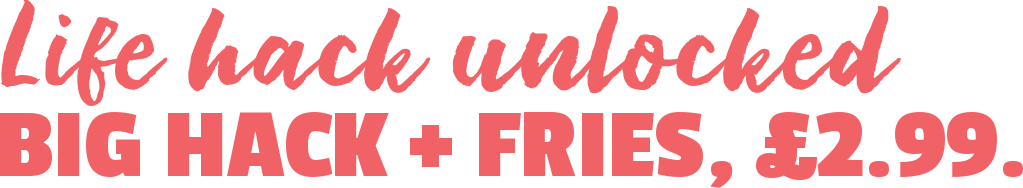
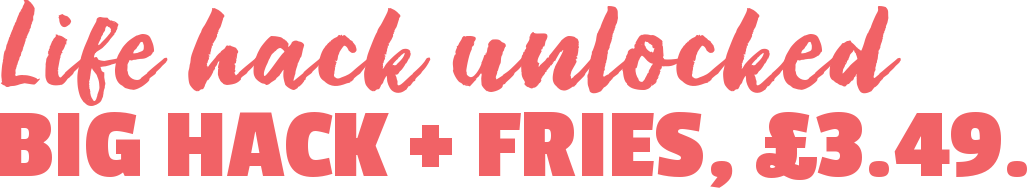
Tue 24 Nov deal email: Big Hack + fries now £3.49
Claude-Session: https://claude.ai/code/session_01GYxQg47SgkWvXTb2iUprmt

diff --git a/deals-nov-2026/bims-email-tue-24-11-big-hack-fries-349.html b/deals-nov-2026/bims-email-tue-24-11-big-hack-fries-349.html
@@ -41,7 +41,7 @@ a { text-decoration:none; }
 </style>
 </head>
 <body class="bg-black" style="margin:0;padding:0;width:100%;background-color:#141414;background-image:linear-gradient(#141414,#141414);">
-<div style="display:none;font-size:1px;line-height:1px;max-height:0;max-width:0;opacity:0;overflow:hidden;mso-hide:all;">Big Hack + small fries for £2.99. Tuesday only. That&#x27;s not a typo, it&#x27;s a hack.&nbsp;&#847;&nbsp;&#847;&nbsp;&#847;&nbsp;&#847;&nbsp;&#847;&nbsp;&#847;&nbsp;&#847;&nbsp;&#847;&nbsp;&#847;&nbsp;&#847;&nbsp;&#847;&nbsp;&#847;&nbsp;&#847;&nbsp;&#847;&nbsp;&#847;&nbsp;&#847;&nbsp;&#847;&nbsp;&#847;&nbsp;&#847;&nbsp;&#847;&nbsp;&#847;&nbsp;&#847;&nbsp;&#847;&nbsp;&#847;&nbsp;&#847;&nbsp;&#847;&nbsp;&#847;&nbsp;&#847;&nbsp;&#847;&nbsp;&#847;&nbsp;&#847;&nbsp;&#847;&nbsp;&#847;&nbsp;&#847;&nbsp;&#847;&nbsp;&#847;&nbsp;&#847;&nbsp;&#847;&nbsp;&#847;&nbsp;&#847;&nbsp;&#847;&nbsp;&#847;&nbsp;&#847;&nbsp;&#847;&nbsp;&#847;&nbsp;&#847;&nbsp;&#847;&nbsp;&#847;&nbsp;&#847;&nbsp;&#847;&nbsp;&#847;&nbsp;&#847;&nbsp;&#847;&nbsp;&#847;&nbsp;&#847;&nbsp;&#847;&nbsp;&#847;&nbsp;&#847;&nbsp;&#847;&nbsp;&#847;</div>
+<div style="display:none;font-size:1px;line-height:1px;max-height:0;max-width:0;opacity:0;overflow:hidden;mso-hide:all;">Big Hack + small fries for £3.49. Tuesday only. That&#x27;s not a typo, it&#x27;s a hack.&nbsp;&#847;&nbsp;&#847;&nbsp;&#847;&nbsp;&#847;&nbsp;&#847;&nbsp;&#847;&nbsp;&#847;&nbsp;&#847;&nbsp;&#847;&nbsp;&#847;&nbsp;&#847;&nbsp;&#847;&nbsp;&#847;&nbsp;&#847;&nbsp;&#847;&nbsp;&#847;&nbsp;&#847;&nbsp;&#847;&nbsp;&#847;&nbsp;&#847;&nbsp;&#847;&nbsp;&#847;&nbsp;&#847;&nbsp;&#847;&nbsp;&#847;&nbsp;&#847;&nbsp;&#847;&nbsp;&#847;&nbsp;&#847;&nbsp;&#847;&nbsp;&#847;&nbsp;&#847;&nbsp;&#847;&nbsp;&#847;&nbsp;&#847;&nbsp;&#847;&nbsp;&#847;&nbsp;&#847;&nbsp;&#847;&nbsp;&#847;&nbsp;&#847;&nbsp;&#847;&nbsp;&#847;&nbsp;&#847;&nbsp;&#847;&nbsp;&#847;&nbsp;&#847;&nbsp;&#847;&nbsp;&#847;&nbsp;&#847;&nbsp;&#847;&nbsp;&#847;&nbsp;&#847;&nbsp;&#847;&nbsp;&#847;&nbsp;&#847;&nbsp;&#847;&nbsp;&#847;&nbsp;&#847;&nbsp;&#847;</div>
 <table role="presentation" width="100%" cellpadding="0" cellspacing="0" border="0" class="bg-black" bgcolor="#141414" style="background-color:#141414;background-image:linear-gradient(#141414,#141414);">
 <tr><td align="center" style="padding:0;">
 <table role="presentation" width="600" cellpadding="0" cellspacing="0" border="0" class="w100" style="width:600px;max-width:600px;">
@@ -55,13 +55,13 @@ a { text-decoration:none; }
 
 <!-- hero -->
 <tr><td class="px bg-black" bgcolor="#141414" style="background-color:#141414;background-image:linear-gradient(#141414,#141414);padding:6px 20px 0 20px;">
-<a href="https://www.bims.co.uk" target="_blank"><img src="https://raw.githubusercontent.com/yaniiszigheche-pixel/BIMS-EMAIL-/main/deals-nov-2026/2026-11-24-big-hack-fries-299.jpg" width="560" alt="Big Hack and small fries, only £2.99. Tuesday only." style="display:block;width:100%;max-width:560px;height:auto;border-radius:20px;"></a>
+<a href="https://www.bims.co.uk" target="_blank"><img src="https://raw.githubusercontent.com/yaniiszigheche-pixel/BIMS-EMAIL-/main/deals-nov-2026/2026-11-24-big-hack-fries-349.jpg" width="560" alt="Big Hack and small fries, only £3.49. Tuesday only." style="display:block;width:100%;max-width:560px;height:auto;border-radius:20px;"></a>
 </td></tr>
 <tr><td class="bg-black" bgcolor="#141414" align="center" style="background-color:#141414;background-image:linear-gradient(#141414,#141414);padding:22px 20px 26px 20px;">
 <div class="t-yellow" style="font-family:Poppins,'Segoe UI',Arial,Helvetica,sans-serif;font-size:12px;line-height:16px;letter-spacing:3px;font-weight:600;color:#FFCE27;padding-bottom:16px;">TUESDAY ONLY · ENDS TONIGHT</div>
 <table role="presentation" cellpadding="0" cellspacing="0" border="0" align="center" style="border-collapse:separate;"><tr>
 <td class="bg-coral" align="center" style="background-color:#F16266;background-image:linear-gradient(#F16266,#F16266);border-radius:999px;">
-<a href="https://www.bims.co.uk" target="_blank" class="t-btn" style="display:inline-block;padding:13px 32px;font-family:'Passion One',Impact,'Arial Black','Helvetica Neue',Arial,sans-serif;font-weight:700;font-size:20px;line-height:22px;letter-spacing:1.5px;color:#FFFFFF;text-decoration:none;border-radius:999px;">GET MY £2.99 HACK</a>
+<a href="https://www.bims.co.uk" target="_blank" class="t-btn" style="display:inline-block;padding:13px 32px;font-family:'Passion One',Impact,'Arial Black','Helvetica Neue',Arial,sans-serif;font-weight:700;font-size:20px;line-height:22px;letter-spacing:1.5px;color:#FFFFFF;text-decoration:none;border-radius:999px;">GET MY £3.49 HACK</a>
 </td></tr></table>
 </td></tr>
 
@@ -70,14 +70,14 @@ a { text-decoration:none; }
 <tr><td class="px bg-yellow" bgcolor="#FFCE27" style="background-color:#FFCE27;background-image:linear-gradient(#FFCE27,#FFCE27);padding:0 20px 8px 20px;">
 <table role="presentation" width="100%" cellpadding="0" cellspacing="0" border="0"><tr>
 <td class="bg-black" bgcolor="#141414" style="background-color:#141414;background-image:linear-gradient(#141414,#141414);border-radius:24px;padding:30px 26px 26px 26px;">
-<img src="https://raw.githubusercontent.com/yaniiszigheche-pixel/BIMS-EMAIL-/main/deals-nov-2026/2026-11-24-header.png" width="520" alt="Life hack unlocked. BIG HACK + FRIES, £2.99." style="display:block;width:100%;max-width:520px;height:auto;margin:0 0 18px 0;">
-<p style="margin:0 0 14px 0;font-family:Poppins,'Segoe UI',Arial,Helvetica,sans-serif;font-size:16px;line-height:25px;color:#FFFFFF;" class="t-white">Our double beef Big Hack with small fries for £2.99. Normally £7.38. Yes, really.</p><p style="margin:0 0 14px 0;font-family:Poppins,'Segoe UI',Arial,Helvetica,sans-serif;font-size:16px;line-height:25px;color:#FFFFFF;" class="t-white">No, it&#x27;s not a typo. It&#x27;s a hack. Tuesday only, in the Bim&#x27;s app.</p>
+<img src="https://raw.githubusercontent.com/yaniiszigheche-pixel/BIMS-EMAIL-/main/deals-nov-2026/2026-11-24-header.png" width="520" alt="Life hack unlocked. BIG HACK + FRIES, £3.49." style="display:block;width:100%;max-width:520px;height:auto;margin:0 0 18px 0;">
+<p style="margin:0 0 14px 0;font-family:Poppins,'Segoe UI',Arial,Helvetica,sans-serif;font-size:16px;line-height:25px;color:#FFFFFF;" class="t-white">Our double beef Big Hack with small fries for £3.49. Normally £7.38. Yes, really.</p><p style="margin:0 0 14px 0;font-family:Poppins,'Segoe UI',Arial,Helvetica,sans-serif;font-size:16px;line-height:25px;color:#FFFFFF;" class="t-white">No, it&#x27;s not a typo. It&#x27;s a hack. Tuesday only, in the Bim&#x27;s app.</p>
 <table role="presentation" width="100%" cellpadding="0" cellspacing="0" border="0" style="margin-top:8px;"><tr><td class="pill bg-pill" width="33%" valign="top" style="background-color:#2B2B2B;background-image:linear-gradient(#2B2B2B,#2B2B2B);border-radius:16px;padding:14px 12px;">
 <div class="t-pl" style="font-family:'Passion One',Impact,'Arial Black','Helvetica Neue',Arial,sans-serif;font-weight:700;font-size:17px;line-height:19px;color:#FFCE27;letter-spacing:.5px;">DOUBLE BEEF</div>
 <div style="font-family:Poppins,'Segoe UI',Arial,Helvetica,sans-serif;font-size:13px;line-height:17px;color:#FFFFFF;padding-top:4px;">The Big Hack</div></td><td class="pillgap" width="8" style="font-size:0;line-height:0;">&nbsp;</td><td class="pill bg-coral" width="33%" valign="top" style="background-color:#F16266;background-image:linear-gradient(#F16266,#F16266);border-radius:16px;padding:14px 12px;">
 <div class="t-pl" style="font-family:'Passion One',Impact,'Arial Black','Helvetica Neue',Arial,sans-serif;font-weight:700;font-size:17px;line-height:19px;color:#FFFFFF;letter-spacing:.5px;">PLUS FRIES</div>
 <div style="font-family:Poppins,'Segoe UI',Arial,Helvetica,sans-serif;font-size:13px;line-height:17px;color:#FFFFFF;padding-top:4px;">Small fries in</div></td><td class="pillgap" width="8" style="font-size:0;line-height:0;">&nbsp;</td><td class="pill bg-pill" width="33%" valign="top" style="background-color:#2B2B2B;background-image:linear-gradient(#2B2B2B,#2B2B2B);border-radius:16px;padding:14px 12px;">
-<div class="t-pl" style="font-family:'Passion One',Impact,'Arial Black','Helvetica Neue',Arial,sans-serif;font-weight:700;font-size:17px;line-height:19px;color:#FFCE27;letter-spacing:.5px;">£2.99</div>
+<div class="t-pl" style="font-family:'Passion One',Impact,'Arial Black','Helvetica Neue',Arial,sans-serif;font-weight:700;font-size:17px;line-height:19px;color:#FFCE27;letter-spacing:.5px;">£3.49</div>
 <div style="font-family:Poppins,'Segoe UI',Arial,Helvetica,sans-serif;font-size:13px;line-height:17px;color:#FFFFFF;padding-top:4px;">Tuesday only</div></td></tr></table>
 </td></tr></table>
 </td></tr>
